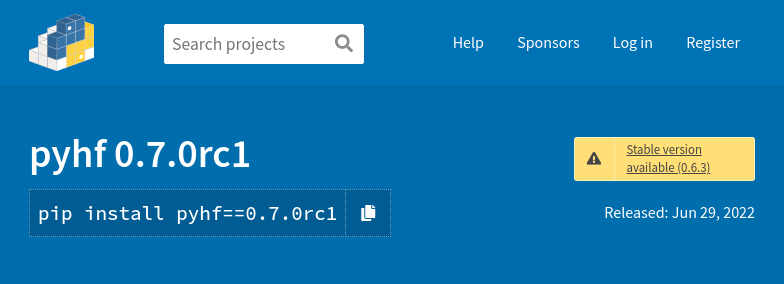
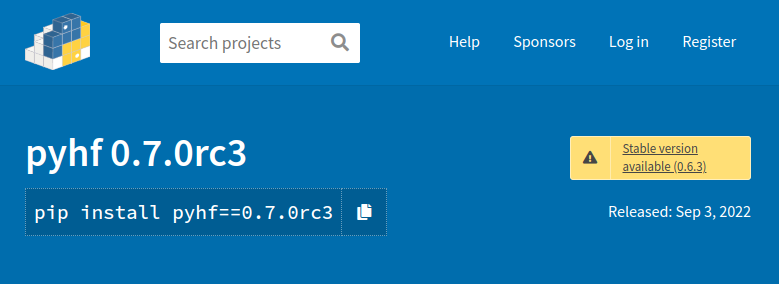
Update release candidate views

diff --git a/talk.md b/talk.md
@@ -226,7 +226,7 @@ $$
   - [`$ python -m pip install --pre pyhf`](https://scikit-hep.org/pyhf/installation.html#install-from-pypi)
   - No dependence on ROOT!
 
-.center.width-100[[![pyhf_PyPI](figures/pyhf_PyPI_rc.png)](https://pypi.org/project/pyhf/0.7.0rc1/)]
+.center.width-100[[![pyhf_PyPI](figures/pyhf_PyPI_rc.png)](https://pypi.org/project/pyhf/0.7.0rc3/)]
 ]
 .kol-1-2.large[
 - Open source tool for all of HEP
